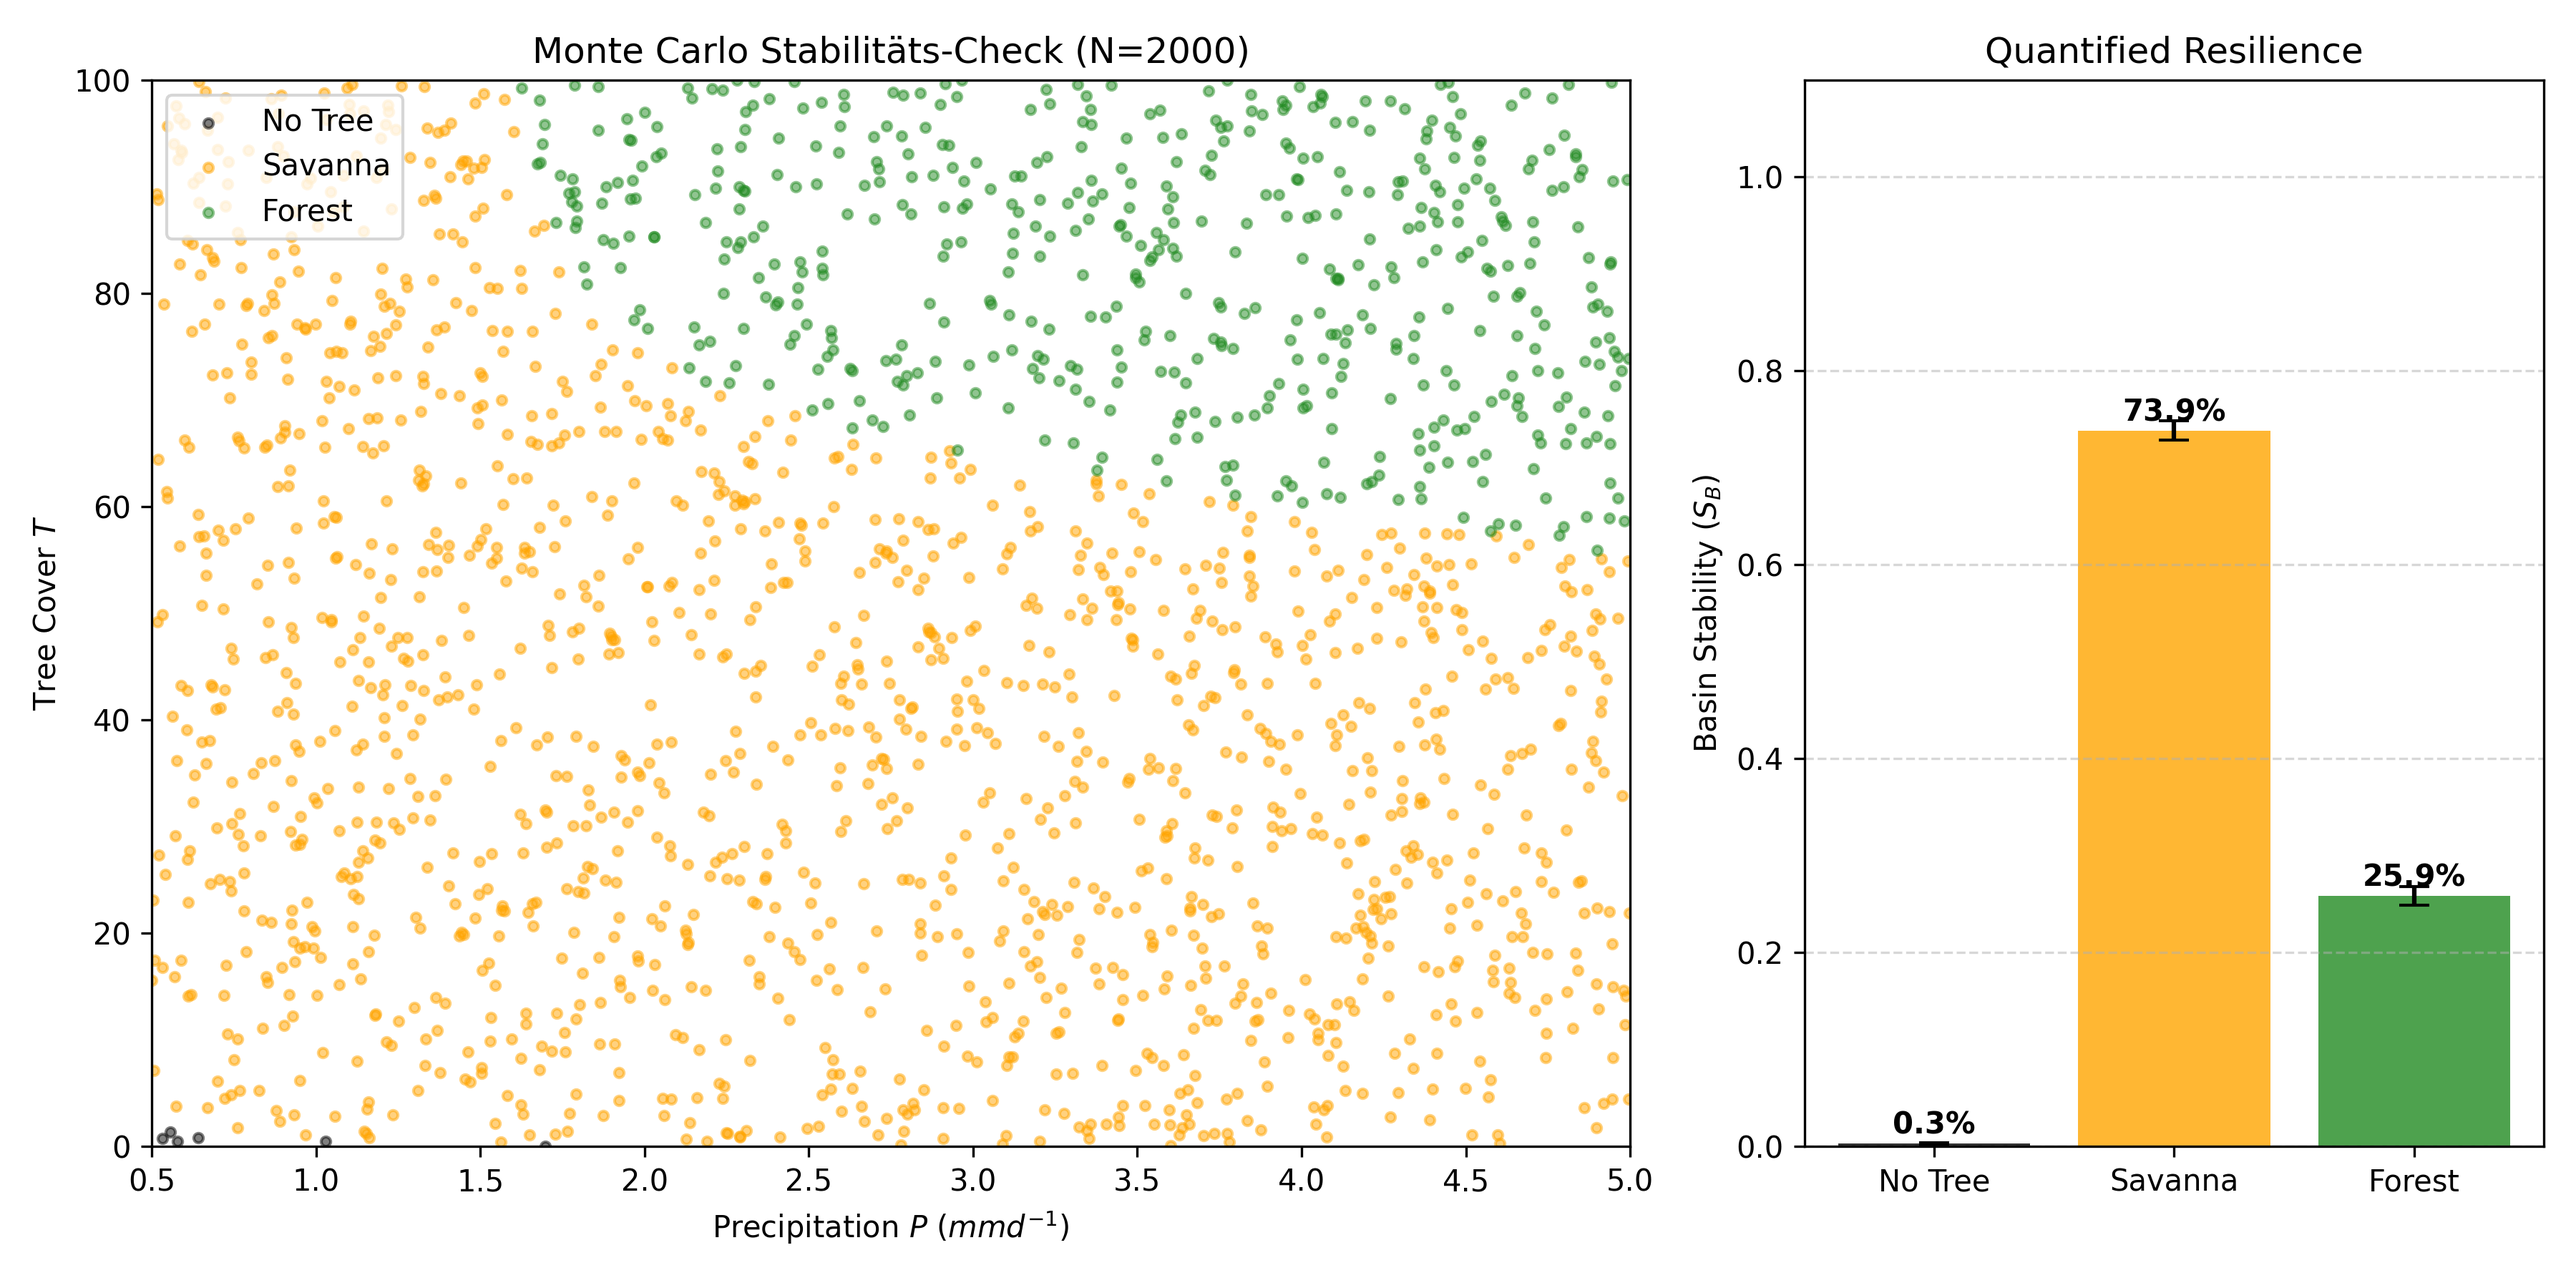
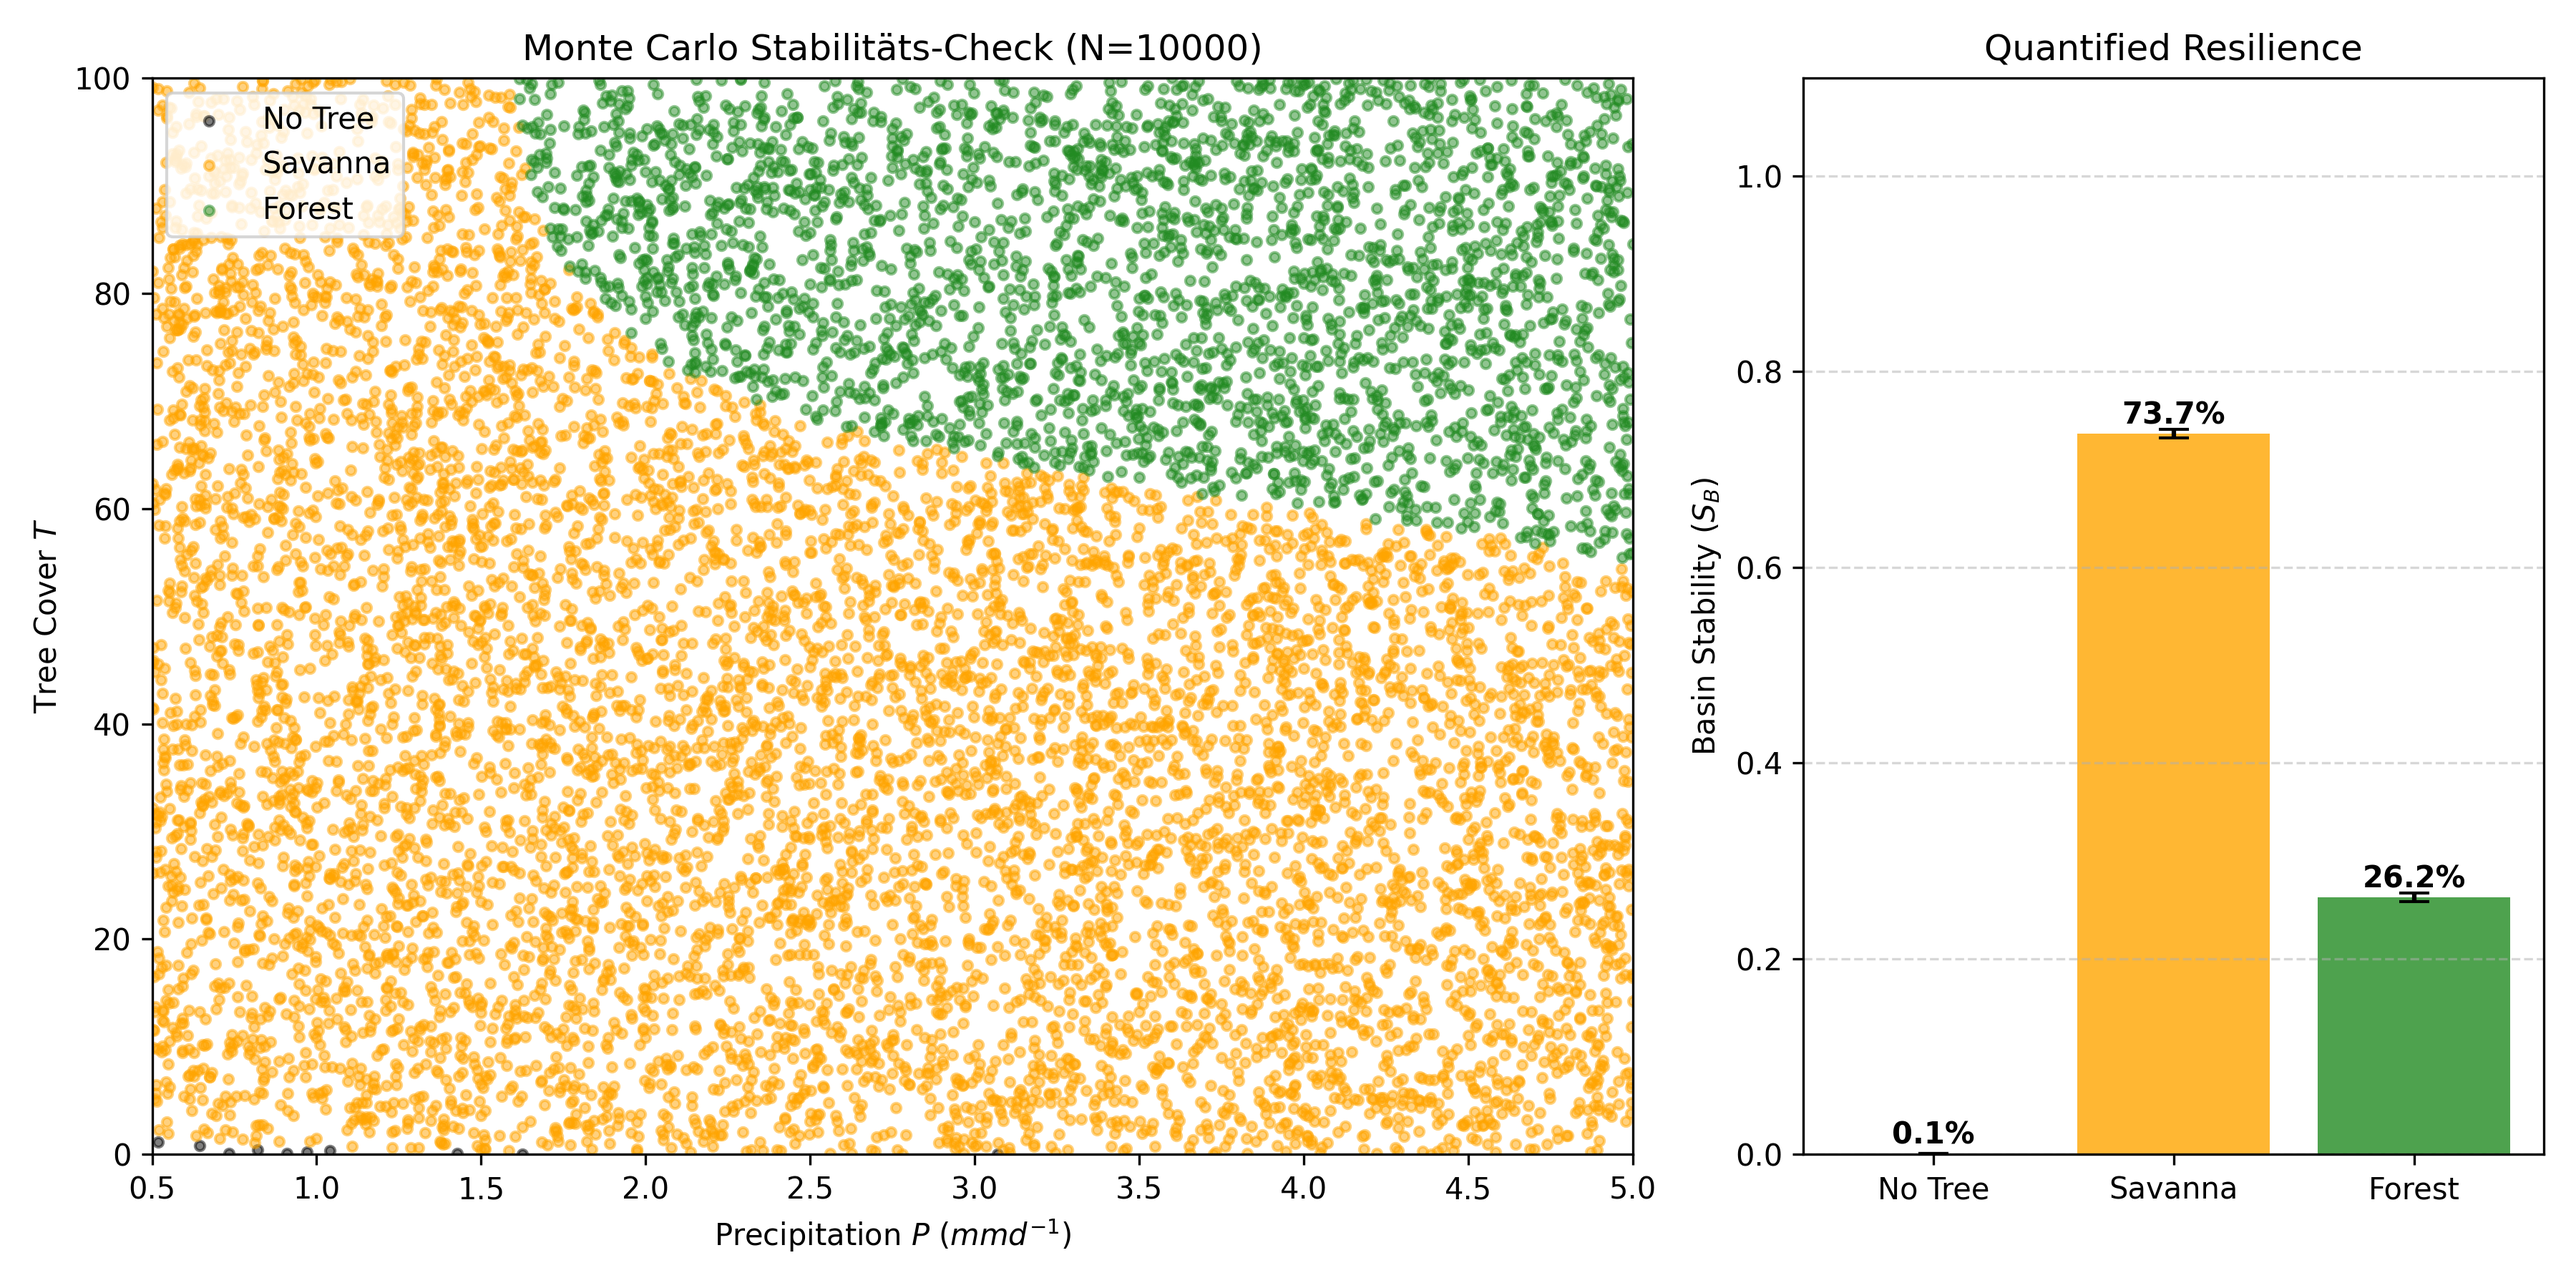
Eine Worker Function und Neue Variablen

diff --git a/src/main.py b/src/main.py
@@ -498,58 +498,67 @@ def compute_ode_gaps_meshgrid(P_grid, T_grid, odes, pstable, stable, gaps, eps=1
             else: results[i,j]=0
     return results
 
-
-def worker_task(args, odes, pstable, stable, gaps, eps):
-    i, j, p0, t0 = args
-    sol = odeint(func=odes, y0=[p0, t0], t=np.linspace(0,1000,10000))
-    final_P, final_T = sol[-1]
-    mask = (pstable >= final_P - eps) & (pstable <= final_P + eps)
-    if np.any(np.abs(stable[mask] - final_T) <= eps):
-        if final_T < gaps[0]:
-            code = 1
-        elif final_T < gaps[1]:
-            code = 2
-        else:
-            code = 3
-    else:
-        code = 0
-    return (i, j, code)
-
-def compute_ode_gaps_meshgrid_parallel(P_grid, T_grid, odes, pstable, stable, gaps, eps=1e-6):
-    results = np.zeros(P_grid.shape, dtype=int)
+def worker_task(args, odes, gaps):
+    """
+    Hilfsfunktion für einen einzelnen Simulations-Schritt (für Parallelisierung).
+    Nutzt einfache Schwellenwerte (Gaps) zur Klassifizierung.
+    """
+    i, P0, T0 = args
     
-    # Prepare tasks
-    tasks = [(i, j, P_grid[i,j], T_grid[i,j])
-             for i in range(P_grid.shape[0])
-             for j in range(P_grid.shape[1])]
+    # Simulation: Wir integrieren lange genug (t=1000), um das Gleichgewicht zu finden
+    sol = odeint(func=odes, y0=[P0, T0], t=np.linspace(0, 1000, 100))
+    final_T = sol[-1, 1]
+    
+    # Klassifizierung anhand der Gaps
+    # Code 1: No Tree, Code 2: Savanna, Code 3: Forest
+    if final_T < gaps[0]:
+        code = 1
+    elif final_T < gaps[1]:
+        code = 2
+    else:
+        code = 3
+        
+    return (i, P0, T0, code)
 
-    # Partial to pass extra args
-    func = partial(worker_task, odes=odes, pstable=pstable, stable=stable, gaps=gaps, eps=eps)
+# def compute_ode_gaps_meshgrid_parallel(P_grid, T_grid, odes, pstable, stable, gaps, eps=1e-6):
+#     results = np.zeros(P_grid.shape, dtype=int)
+    
+#     # Prepare tasks
+#     tasks = [(i, j, P_grid[i,j], T_grid[i,j])
+#              for i in range(P_grid.shape[0])
+#              for j in range(P_grid.shape[1])]
+    
+#     tasks = [(i, random_P[i], random_T[i]) for i in range(N_samples)]
 
-    # Run in parallel
-    with Pool(os.cpu_count()) as pool:
-        outputs = pool.map(func, tasks)
+#     # Partial to pass extra args
+#     func = partial(worker_task, odes=odes, gaps=gaps)
 
-    # Fill results
-    for i, j, code in outputs:
-        results[i,j] = code
+#     # Run in parallel
+#     with Pool(os.cpu_count()) as pool:
+#         outputs = pool.map(func, tasks)
 
-    return results
+#     # Fill results
+#     for i, j, code in outputs:
+#         results[i,j] = code
+
+#     return results
 
 def compute_ode_gaps_meshgrid_parallel_progress(P_grid, T_grid, odes, pstable, stable, gaps, eps=1e-6):
     results = np.zeros(P_grid.shape, dtype=int)
     
-    tasks = [(i, j, P_grid[i,j], T_grid[i,j])
+    flat = [[P_grid[i,j], T_grid[i,j]]
              for i in range(P_grid.shape[0])
-             for j in range(P_grid.shape[1])]
+             for j in range(P_grid.shape[1])] 
+    flat_results = np.zeros(len(flat), dtype=int)
+    tasks = [(i,*flat[i]) for i in range(len(flat))]
+    print(tasks[0])
 
-    func = partial(worker_task, odes=odes, pstable=pstable, stable=stable, gaps=gaps, eps=eps)
-
+    func = partial(worker_task, odes=odes, gaps=gaps)
     with Pool(os.cpu_count()) as pool:
         # Use imap_unordered for faster results and tqdm for progress
-        for i, (row, col, code) in enumerate(tqdm(pool.imap_unordered(func, tasks), total=len(tasks))):
-            results[row, col] = code
-
+        for _, (i,p0,t0,code) in enumerate(tqdm(pool.imap_unordered(func, tasks), total=len(tasks))):
+            flat_results[i] = code
+    results=flat_results.reshape(P_grid.shape)
     return results
 
 def make_plot_egbert(P,T,func_cover_derivative,func_precipitation_derivative,xlabel=None,ylabel=None,title=None,figsize=None):
@@ -687,28 +696,6 @@ if __name__ == '__main__':
 # MONTE CARLO #
 # -----------------------------------------------------------
 
-def worker_task_mc(args, odes, gaps):
-    """
-    Hilfsfunktion für einen einzelnen Simulations-Schritt (für Parallelisierung).
-    Nutzt einfache Schwellenwerte (Gaps) zur Klassifizierung.
-    """
-    i, P0, T0 = args
-    
-    # Simulation: Wir integrieren lange genug (t=1000), um das Gleichgewicht zu finden
-    sol = odeint(func=odes, y0=[P0, T0], t=np.linspace(0, 1000, 100))
-    final_T = sol[-1, 1]
-    
-    # Klassifizierung anhand der Gaps
-    # Code 1: No Tree, Code 2: Savanna, Code 3: Forest
-    if final_T < gaps[0]:
-        code = 1
-    elif final_T < gaps[1]:
-        code = 2
-    else:
-        code = 3
-        
-    return (P0, T0, code)
-
 def make_plot_monte_carlo(N_samples, bounds_P, bounds_T, odes, gaps, output_file=None, figsize=(12, 6)):
     """
     Führt die MC-Simulation aus und erstellt den Plot (Karte + Statistik).
@@ -716,6 +703,9 @@ def make_plot_monte_carlo(N_samples, bounds_P, bounds_T, odes, gaps, output_file
     print(f"Starte Monte Carlo Simulation mit {N_samples} Punkten...")
     
     # 1. Zufällige Startpunkte generieren
+    # random_P = np.random.normal(loc=(bounds_P[0]+bounds_P[1])/2, scale=0.8, size=N_samples)
+    # random_T = np.random.normal(loc=(bounds_T[0]+bounds_T[1])/2, scale=15, size=N_samples)
+
     random_P = np.random.uniform(bounds_P[0], bounds_P[1], N_samples)
     random_T = np.random.uniform(bounds_T[0], bounds_T[1], N_samples)
     
@@ -723,13 +713,13 @@ def make_plot_monte_carlo(N_samples, bounds_P, bounds_T, odes, gaps, output_file
     
     # 2. Parallel rechnen
     # Wir übergeben 'odes' und 'gaps' mit partial
-    func = partial(worker_task_mc, odes=odes, gaps=gaps)
+    func = partial(worker_task, odes=odes, gaps=gaps)
     
     results = []
     # Nutzt alle verfügbaren Kerne
     with Pool(os.cpu_count()) as pool:
         # tqdm zeigt einen Ladebalken, falls gewünscht
-        for res in tqdm(pool.imap_unordered(func, tasks), total=N_samples, desc="MC Sampling"):
+        for (_,*res) in tqdm(pool.imap_unordered(func, tasks), total=N_samples, desc="MC Sampling"):
             results.append(res)
             
     # Ergebnisse entpacken
@@ -800,7 +790,7 @@ if __name__ == '__main__':
     
     # 2. Plot erstellen
     make_plot_monte_carlo(
-        N_samples=2000,           # Anzahl der Punkte (je mehr, desto genauer)
+        N_samples=int(1e4),           # Anzahl der Punkte (je mehr, desto genauer)
         bounds_P=(0.5, 5.0),      # Bereich für Niederschlag
         bounds_T=(0, 100),        # Bereich für Baumdichte
         odes=odes,                # Deine existierende odes-Funktion
@@ -809,6 +799,6 @@ if __name__ == '__main__':
     )
     
    
-    plt.show()
+    # plt.show()
     
     
